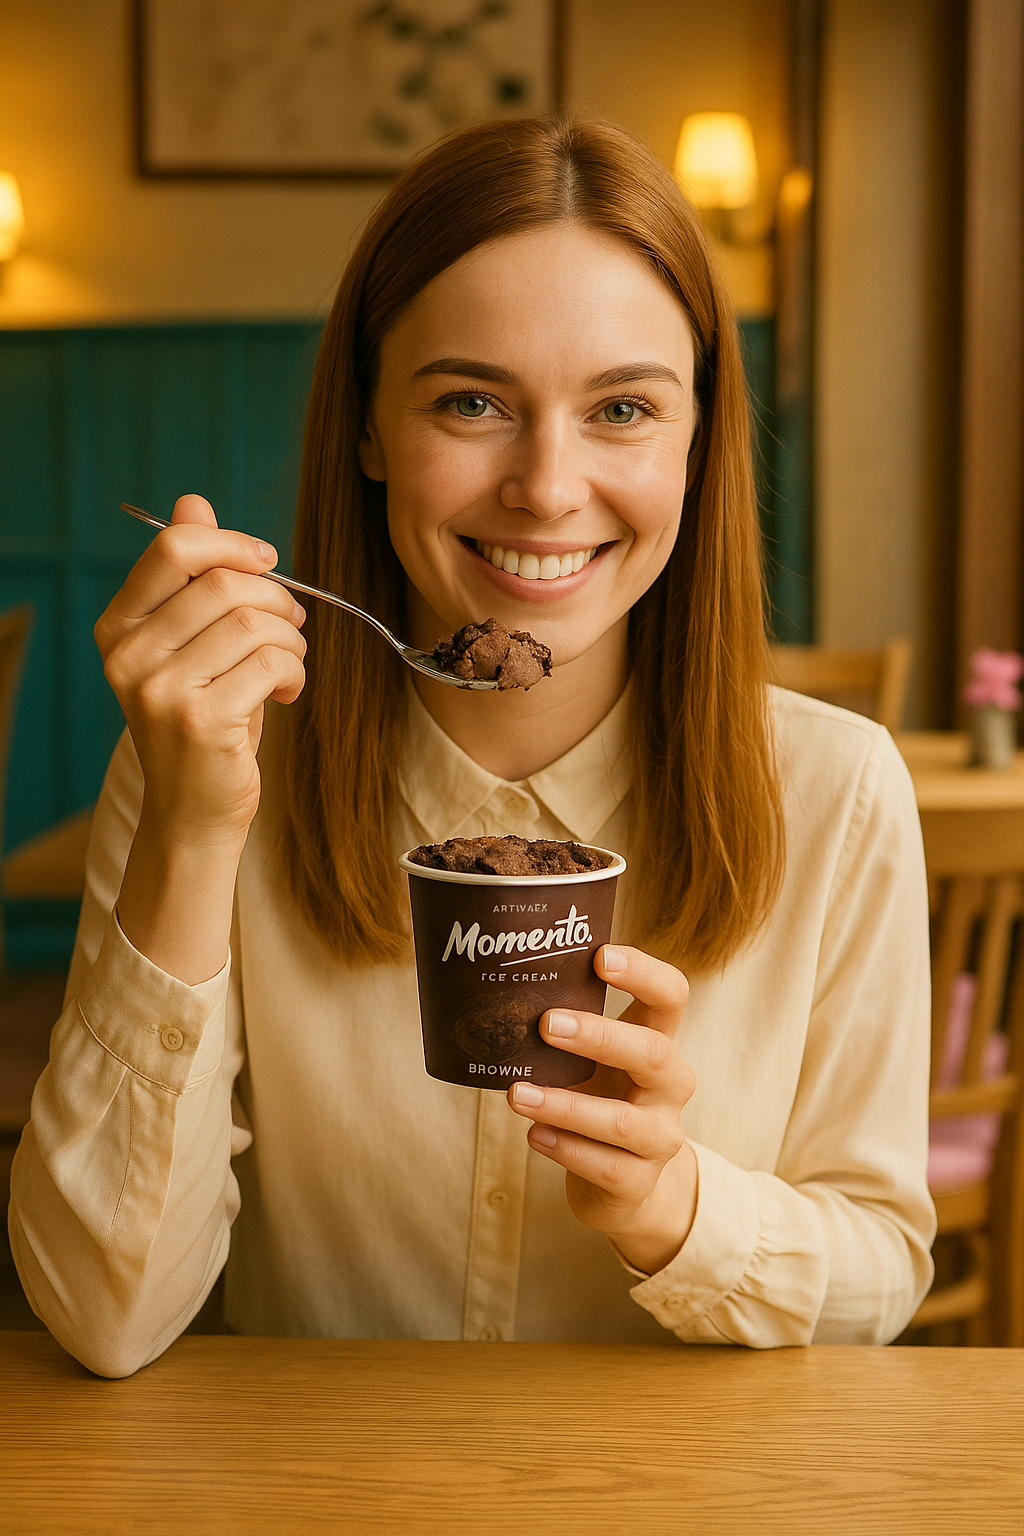
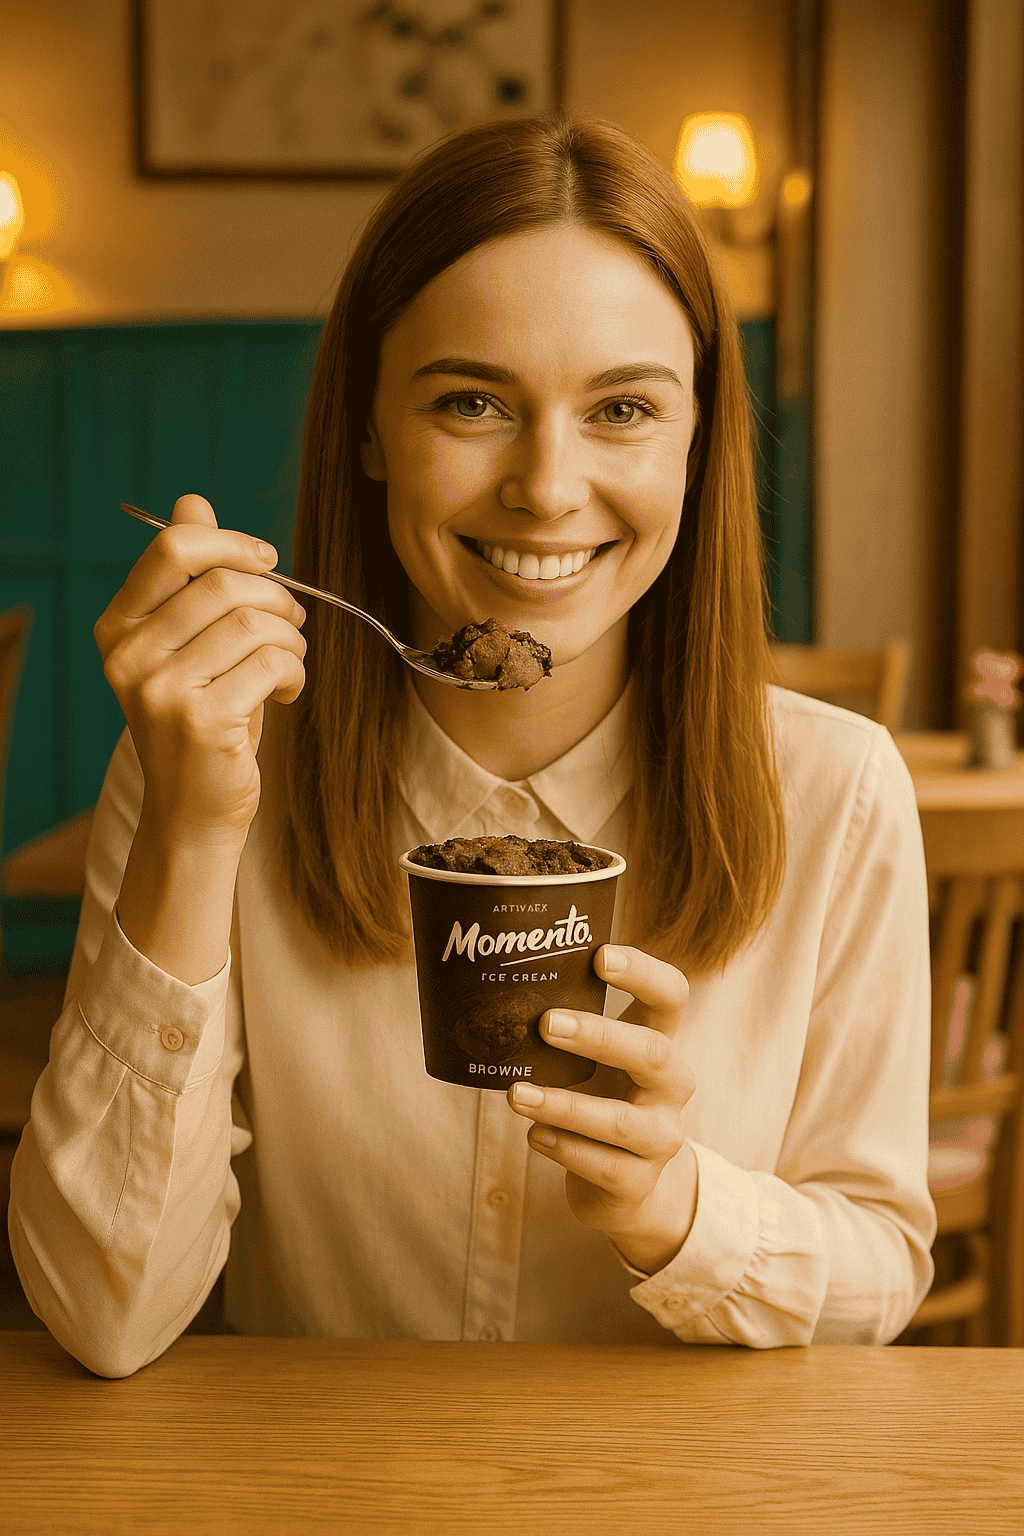
update

diff --git a/src/app/[locale]/layout.tsx b/src/app/[locale]/layout.tsx
@@ -1,5 +1,5 @@
 import { NextIntlClientProvider } from "next-intl";
-import { getMessages } from "next-intl/server";
+import { getMessages, getTranslations } from "next-intl/server";
 import { notFound } from "next/navigation";
 import { routing } from "@/i18n/routing";
 import { ThemeProvider } from "@/components/ThemeProvider";
@@ -12,13 +12,22 @@ import "../globals.css";
 import Footer from "@/components/layout/Footer/Footer";
 import type { Metadata } from "next";
 
-export const metadata: Metadata = {
-    title: "Momento - Artisan Glacier",
-    description: "MOMENTO - Des desserts glacés artisanaux qui transforment chaque instant en un moment mémorable.",
-    icons: {
-        icon: "/icon.png",
-    },
-};
+export async function generateMetadata({
+    params,
+}: {
+    params: Promise<{ locale: string }>;
+}): Promise<Metadata> {
+    const { locale } = await params;
+    const t = await getTranslations({ locale, namespace: "Metadata" });
+
+    return {
+        title: t("title"),
+        description: t("description"),
+        icons: {
+            icon: "/icon.png",
+        },
+    };
+}
 
 const geistSans = Geist({
     variable: "--font-geist-sans",
